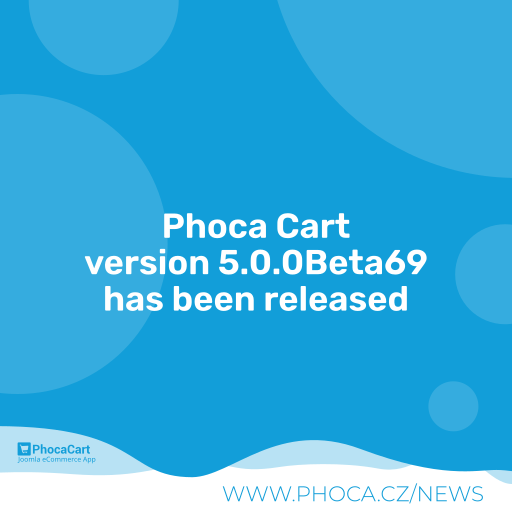
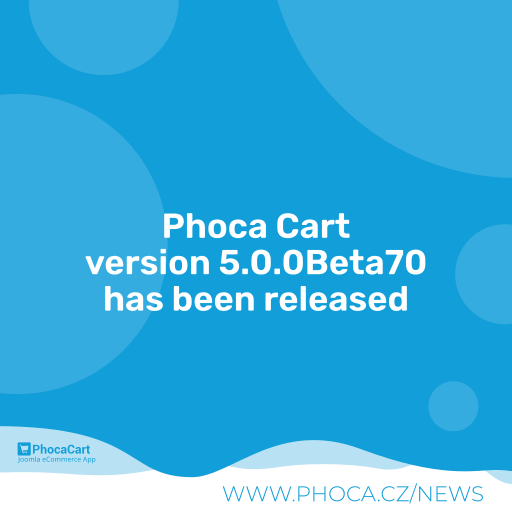
5.0.0Beta70

Changed region(s): [[0.1562, 0.4688, 0.8438, 0.5312]]

diff --git a/media/js/phoca/phocafilter.min.js b/media/js/phoca/phocafilter.min.js
@@ -1,1 +1,1 @@
-let phFilterNewUrlSet="",phFilterNewUrlRemove="",phFilterNewUrlSetPreviousParamWaiting=0,phFilterNewUrlRemovePreviousParamWaiting=0;function phEscapeRegExp(e){return e.replace(/([.*+?^=!:${}()|\[\]\/\\])/g,"\\$1")}function phReplaceAll(e,r,t){return t.replace(new RegExp(phEscapeRegExp(e),"g"),r)}function phEncode(e){e=encodeURIComponent(e);return e=phReplaceAll("%5B","[",e),e=phReplaceAll("%5D","]",e),e=phReplaceAll("%2C",",",e),phReplaceAll("%3A",":",e)}function phArrayToString(e){e=phReplaceAll("[","(",e);return phReplaceAll("]",")",e)}function phStringToArray(e){e=phReplaceAll("(","[",e);return phReplaceAll(")","]",e)}function phCleanArray(r){var t=[];for(let e=0;e<r.length;e++)r[e]&&t.push(r[e]);return t}function phCleanEmptyParams(e){return e.replace(/&?[^&?]+=(?=(?:&|$))/g,"")}function phCleanAloneQuestionMark(e){return e="?"==(e="?&"==e?"?":e)?"":e}function phFilterValue(e){e=phReplaceAll("<","",e);return phReplaceAll(">","",e)}function phResetNewUrl(e){phFilterNewUrlRemove="",phFilterNewUrlSet="",1==e&&(phFilterNewUrlRemovePreviousParamWaiting=0,phFilterNewUrlSetPreviousParamWaiting=0)}function phIsString(e){return"string"==typeof e}function phGetQueryString(e){return e.replace(/(?:^[^?#]*\?([^#]*).*$)?.*/,"$1")}function phUrlParam(e){if(null==e)return"";const i=[],l=/\[\]$/,a=(e,r)=>{let t="function"==typeof r?r():r;null==t&&(t=""),i.push(encodeURIComponent(e)+"="+encodeURIComponent(t))},o=(t,e)=>{if(Array.isArray(e))e.forEach((e,r)=>{l.test(t)?a(t,e):(r="object"==typeof e&&null!=e?r:"",o(t+`[${r}]`,e))});else if("object"==typeof e&&null!=e)for(var[r,i]of Object.entries(e))o(`${t}[${r}]`,i);else a(t,e)};if(Array.isArray(e))e.forEach(e=>a(e.name,e.value));else for(var[r,t]of Object.entries(e))o(r,t);return i.join("&")}function phUrlDeParam(e,o){let n={},p={true:!0,false:!1,null:null};return e.replace(/\+/g," ").split("&").forEach(function(e){e=e.split("=");let r=decodeURIComponent(e[0]),t="",i=n,l=r.split("]["),a=l.length-1;if(a=/\[/.test(l[0])&&/\]$/.test(l[a])?(l[a]=l[a].replace(/\]$/,""),(l=l.shift().split("[").concat(l)).length-1):0,2===e.length)if(t=decodeURIComponent(e[1]),o&&(t=t&&!isNaN(t)?+t:"undefined"===t?void 0:void 0!==p[t]?p[t]:t),a)for(let e=0;e<=a;e++)r=""===l[e]?i.length:l[e],i=i[r]=e<a?i[r]||(l[e+1]&&isNaN(l[e+1])?{}:[]):t;else Array.isArray(n[r])?n[r].push(t):void 0!==n[r]?n[r]=[n[r],t]:n[r]=t;else r&&(n[r]=o?void 0:"")}),n}function phUrlParamQueryString(e,r,t){let i="",l="";var a,o,n;return i=void 0!==r?(n=(a=e.match(/^([^#?]*)\??([^#]*)(#?.*)/))[3]||"",l=2===t&&phIsString(r)?r.replace(/^.*\?|#.*$/g,""):(o=phUrlDeParam(a[2]),r=phIsString(r)?phUrlDeParamQueryString(r):r,phUrlParam(l=2===t?r:1===t?{...r,...o}:{...o,...r})),a[1]+(l||!a[1]?"?":"")+l+n):phGetQueryString(void 0!==e?e:window.location.href)}function phUrlDeParamQueryString(e,r){return phUrlDeParam(e=void 0===e||"boolean"==typeof e?(r=e,phUrlParamQueryString()):phIsString(e)?e.replace(/^.*\?|#.*$/g,""):e,r)}function phRemoveFilter(r,t,e,i,l,a,o,n){var p=Joomla.getOptions("phParamsPC"),h=(1!=p.ajaxSearchingFilteringItems&&(phFilterNewUrlSet=i),r=phArrayToString(r),phUrlParamQueryString()),h=phArrayToString(h);let c,s={},m=0;if(void 0!==(c=""!==phFilterNewUrlRemove||1==phFilterNewUrlRemovePreviousParamWaiting?phUrlDeParamQueryString(phFilterNewUrlRemove):phUrlDeParamQueryString(h)).start&&(s.start=0),void 0!==c.limitstart&&(s.limitstart=0),1==a)delete c[r],s=c,m=2;else if(void 0!==c[r]){let e=c[r];h=e.split(",");-1!==(h=phCleanArray(h)).indexOf(t)&&(-1<(a=h.indexOf(t))&&h.splice(a,1),(e=h.join())?s[r]=e:(delete c[r],s=c,m=2))}else delete c[r],s=c,m=2;let u;if(1==e&&1!=l||1!=e)""==(u=i)&&(u=document.location.pathname),document.location=u;else if(u=location.search,u=phArrayToString(u=""===phFilterNewUrlRemove&&1!=phFilterNewUrlRemovePreviousParamWaiting?u:phFilterNewUrlRemove),phFilterNewUrlRemove=phReplaceAll("%2C",",",phFilterNewUrlRemove=phUrlParamQueryString(u,s,m)),phFilterNewUrlRemove=phReplaceAll("%5B","[",phFilterNewUrlRemove),phFilterNewUrlRemove=phReplaceAll("%5D","]",phFilterNewUrlRemove),phFilterNewUrlRemove=phCleanAloneQuestionMark(phFilterNewUrlRemove=phStringToArray(phFilterNewUrlRemove=phReplaceAll("%3A",":",phFilterNewUrlRemove))),1==o){if((phFilterNewUrlRemovePreviousParamWaiting=1)==e&&1==p.ajaxSearchingFilteringItems)return 2}else{if(1==e&&1==p.ajaxSearchingFilteringItems)return phUpdatePageAndParts(phFilterNewUrlRemove,n),phResetNewUrl(1),2;""==phFilterNewUrlRemove&&(phFilterNewUrlRemove=document.location.pathname),document.location=phFilterNewUrlRemove,phResetNewUrl()}return 1}function phSetFilter(r,t,e,i,l,a,o,n){var p=Joomla.getOptions("phParamsPC"),h=(t=phFilterValue(t),r=phArrayToString(r),phUrlParamQueryString()),h=phArrayToString(h);let c;var s={};if(void 0!==(c=1==phFilterNewUrlSetPreviousParamWaiting?phUrlDeParamQueryString(phFilterNewUrlSet=phArrayToString(phFilterNewUrlSet)):phUrlDeParamQueryString(h)).start&&(s.start=0),void 0!==c.limitstart&&(s.limitstart=0),1==a)s[r]=t;else if(""!==t)if(void 0!==c[r]){let e=c[r];h=e.split(",");-1===(h=phCleanArray(h)).indexOf(t)&&(h.push(t),e=h.join()),s[r]=e}else s[r]=t;let m;if(m=1==e&&1!=l||1!=e?i:location.search,m=phArrayToString(m=1==phFilterNewUrlSetPreviousParamWaiting?phFilterNewUrlSet:m),phFilterNewUrlSet=phReplaceAll("%2C",",",phFilterNewUrlSet=phUrlParamQueryString(m,s,0)),phFilterNewUrlSet=phReplaceAll("%5B","[",phFilterNewUrlSet),phFilterNewUrlSet=phReplaceAll("%5D","]",phFilterNewUrlSet),phFilterNewUrlSet=phCleanAloneQuestionMark(phFilterNewUrlSet=phCleanEmptyParams(phFilterNewUrlSet=phStringToArray(phFilterNewUrlSet=phReplaceAll("%3A",":",phFilterNewUrlSet)))),1==o){if((phFilterNewUrlSetPreviousParamWaiting=1)==e&&1==p.ajaxSearchingFilteringItems)return 2}else{if(1==e&&1==p.ajaxSearchingFilteringItems)return phUpdatePageAndParts(phFilterNewUrlSet,n),phResetNewUrl(1),2;document.location=phFilterNewUrlSet,phResetNewUrl()}return 1}function phChangeFilter(e,r,t,i,l,a,o){var n=Joomla.getOptions("phVarsModPhocacartFilter"),p=Joomla.getOptions("phParamsModPhocacartFilter"),h=n.isItemsView,c=n.isSef;const s=n.urlItemsView;var n=n.urlItemsViewWithoutParams;let m=1;"itemview"==i?(void 0===r&&(r=""),m=phSetFilter(e,r,1,0,1,l,a,o)):"text"==i?m=(1==t?phSetFilter:phRemoveFilter)(e,r,h,s,1,l,a,o):"category"==i?(s=n,1!=p.removeParametersCat&&(n=phUrlParamQueryString(),1==h)?1==c?document.location=phUrlParamQueryString(s,n,2):phRemoveFilter(e,r,h,s,1,l,a,o):document.location=s):"color"==i||"image"==i?jQuery(t).hasClass("on")?(m=phRemoveFilter(e,r,h,s,1,l,a,o),jQuery(t).removeClass("on")):(m=phSetFilter(e,r,h,s,1,l,a,o),jQuery(t).addClass("on")):m=(t.checked?phSetFilter:phRemoveFilter)(e,r,h,s,1,l,a,o);var u,p=document.getElementById("phItemFilterBoxOffCanvas");p&&(u=bootstrap.Offcanvas.getInstance(p),setTimeout(function(){u.hide()},500)),startFullOverlay(m)}function phChangeSearch(e,r,t){var i=Joomla.getOptions("phVarsModPhocacartSearch"),l=Joomla.getOptions("phParamsModPhocacartSearch"),a=i.isItemsView;let o=i.urlItemsView;i=i.urlItemsViewWithoutParams;let n=1,p=a;n=(1==t?(1==l.searchOptions?0<jQuery(".phSearchBoxSearchAllProducts:checked").length&&(o=i,p=0):p=0,phSetFilter):phRemoveFilter)(e,r,a,o,p,1,0,2);t=document.getElementById("phItemSearchBoxOffCanvas");t&&bootstrap.Offcanvas.getInstance(t).hide(),startFullOverlay(n)}function phPriceFilterRange(){const i=Joomla.getOptions("phParamsPC"),l=Joomla.getOptions("phLangPC");"function"==typeof jQuery("#phPriceFilterRange").slider&&jQuery("#phPriceFilterRange").slider({range:!0,min:i.filterPriceMin,max:i.filterPriceMax,values:[i.filterPriceFrom,i.filterPriceTo],slide:function(e,r){jQuery("#phPriceFromTopricefrom").val(r.values[0]),jQuery("#phPriceFromTopriceto").val(r.values[1]),jQuery("#phPriceFilterPrice").html(l.COM_PHOCACART_PRICE+": "+phGetPriceFormat(r.values[0])+" - "+phGetPriceFormat(r.values[1]))}}),jQuery("#phPriceFilterPrice").html(l.COM_PHOCACART_PRICE+": "+phGetPriceFormat(i.filterPriceFrom)+" - "+phGetPriceFormat(i.filterPriceTo)),jQuery("#phPriceFromTopricefrom").on("change",function(e){let r=jQuery("#phPriceFromTopricefrom").val(),t=jQuery("#phPriceFromTopriceto").val();""==t&&(t=i.filterPriceMax),""==r&&(r=i.filterPriceMin),Number(t)<Number(r)&&(t=r,jQuery("#phPriceFromTopriceto").val(t)),"function"==typeof jQuery("#phPriceFilterRange").slider&&jQuery("#phPriceFilterRange").slider({values:[r,t]}),jQuery("#phPriceFilterPrice").html(l.COM_PHOCACART_PRICE+": "+phGetPriceFormat(r)+" - "+phGetPriceFormat(t))}),jQuery("#phPriceFromTopriceto").on("change",function(e){let r=jQuery("#phPriceFromTopricefrom").val(),t=jQuery("#phPriceFromTopriceto").val();""==t&&(t=i.filterPriceMax),""==r&&(r=i.filterPriceMin),Number(t)<Number(r)&&(t=r,jQuery("#phPriceFromTopriceto").val(t)),"function"==typeof jQuery("#phPriceFilterRange").slider&&jQuery("#phPriceFilterRange").slider({values:[r,t]}),jQuery("#phPriceFilterPrice").html(l.COM_PHOCACART_PRICE+": "+phGetPriceFormat(r)+" - "+phGetPriceFormat(t))})}function phClearField(e){jQuery(e).val(""),"#phPriceFromTopricefrom"!=e&&"#phPriceFromTopriceto"!=e||phPriceFilterRange()}jQuery(document).ready(function(){jQuery(".collapse").on("shown.bs.collapse",function(){jQuery(this).parent().find(".glyphicon-triangle-right").removeClass("glyphicon-triangle-right").addClass("glyphicon-triangle-bottom"),jQuery(this).parent().find(".fa-caret-right").removeClass("fa-caret-right").addClass("fa-caret-down");var r=jQuery(this).parent().find("svg use").first();if(0<r.length){let e=r.attr("xlink:href");e=e.replace("#pc-si-triangle-right","#pc-si-triangle-bottom"),r.attr("xlink:href",e)}}).on("hidden.bs.collapse",function(){jQuery(this).parent().find(".glyphicon-triangle-bottom").removeClass("glyphicon-triangle-bottom").addClass("glyphicon-triangle-right"),jQuery(this).parent().find(".fa-caret-down").removeClass("fa-caret-down").addClass("fa-caret-right");var r=jQuery(this).parent().find("svg use").first();if(0<r.length){let e=r.attr("xlink:href");e=e.replace("#pc-si-triangle-bottom","#pc-si-triangle-right"),r.attr("xlink:href",e)}}),phPriceFilterRange()});
+let phFilterNewUrlSet="",phFilterNewUrlRemove="",phFilterNewUrlSetPreviousParamWaiting=0,phFilterNewUrlRemovePreviousParamWaiting=0;function phEscapeRegExp(e){return e.replace(/([.*+?^=!:${}()|\[\]\/\\])/g,"\\$1")}function phReplaceAll(e,r,t){return t.replace(new RegExp(phEscapeRegExp(e),"g"),r)}function phEncode(e){e=encodeURIComponent(e);return e=phReplaceAll("%5B","[",e),e=phReplaceAll("%5D","]",e),e=phReplaceAll("%2C",",",e),phReplaceAll("%3A",":",e)}function phArrayToString(e){e=phReplaceAll("[","(",e);return phReplaceAll("]",")",e)}function phStringToArray(e){e=phReplaceAll("(","[",e);return phReplaceAll(")","]",e)}function phCleanArray(r){var t=[];for(let e=0;e<r.length;e++)r[e]&&t.push(r[e]);return t}function phCleanEmptyParams(e){return e.replace(/&?[^&?]+=(?=(?:&|$))/g,"")}function phCleanAloneQuestionMark(e){return e="?"==(e="?&"==e?"?":e)?"":e}function phFilterValue(e){e=phReplaceAll("<","",e);return phReplaceAll(">","",e)}function phResetNewUrl(e){phFilterNewUrlRemove="",phFilterNewUrlSet="",1==e&&(phFilterNewUrlRemovePreviousParamWaiting=0,phFilterNewUrlSetPreviousParamWaiting=0)}function phIsString(e){return"string"==typeof e}function phGetQueryString(e){return e.replace(/(?:^[^?#]*\?([^#]*).*$)?.*/,"$1")}function phUrlParam(e){if(null==e)return"";const i=[],l=/\[\]$/,a=(e,r)=>{let t="function"==typeof r?r():r;null==t&&(t=""),i.push(encodeURIComponent(e)+"="+encodeURIComponent(t))},o=(t,e)=>{if(Array.isArray(e))e.forEach((e,r)=>{l.test(t)?a(t,e):(r="object"==typeof e&&null!=e?r:"",o(t+`[${r}]`,e))});else if("object"==typeof e&&null!=e)for(var[r,i]of Object.entries(e))o(`${t}[${r}]`,i);else a(t,e)};if(Array.isArray(e))e.forEach(e=>a(e.name,e.value));else for(var[r,t]of Object.entries(e))o(r,t);return i.join("&")}function phUrlDeParam(e,o){let n={},p={true:!0,false:!1,null:null};return e.replace(/\+/g," ").split("&").forEach(function(e){e=e.split("=");let r=decodeURIComponent(e[0]),t="",i=n,l=r.split("]["),a=l.length-1;if(a=/\[/.test(l[0])&&/\]$/.test(l[a])?(l[a]=l[a].replace(/\]$/,""),(l=l.shift().split("[").concat(l)).length-1):0,2===e.length)if(t=decodeURIComponent(e[1]),o&&(t=t&&!isNaN(t)?+t:"undefined"===t?void 0:void 0!==p[t]?p[t]:t),a)for(let e=0;e<=a;e++)r=""===l[e]?i.length:l[e],i=i[r]=e<a?i[r]||(l[e+1]&&isNaN(l[e+1])?{}:[]):t;else Array.isArray(n[r])?n[r].push(t):void 0!==n[r]?n[r]=[n[r],t]:n[r]=t;else r&&(n[r]=o?void 0:"")}),n}function phUrlParamQueryString(e,r,t){let i="",l="";var a,o,n;return i=void 0!==r?(n=(a=e.match(/^([^#?]*)\??([^#]*)(#?.*)/))[3]||"",l=2===t&&phIsString(r)?r.replace(/^.*\?|#.*$/g,""):(o=phUrlDeParam(a[2]),r=phIsString(r)?phUrlDeParamQueryString(r):r,phUrlParam(l=2===t?r:1===t?{...r,...o}:{...o,...r})),a[1]+(l||!a[1]?"?":"")+l+n):phGetQueryString(void 0!==e?e:window.location.href)}function phUrlDeParamQueryString(e,r){return phUrlDeParam(e=void 0===e||"boolean"==typeof e?(r=e,phUrlParamQueryString()):phIsString(e)?e.replace(/^.*\?|#.*$/g,""):e,r)}function phRemoveFilter(r,t,e,i,l,a,o,n){var p=Joomla.getOptions("phParamsPC"),h=(1!=p.ajaxSearchingFilteringItems&&(phFilterNewUrlSet=i),r=phArrayToString(r),phUrlParamQueryString()),h=phArrayToString(h);let c,s={},m=0;if(void 0!==(c=""!==phFilterNewUrlRemove||1==phFilterNewUrlRemovePreviousParamWaiting?phUrlDeParamQueryString(phFilterNewUrlRemove):phUrlDeParamQueryString(h)).start&&(s.start=""),void 0!==c.limitstart&&(s.limitstart=""),1==a)delete c[r],s=c,m=2;else if(void 0!==c[r]){let e=c[r];h=e.split(",");-1!==(h=phCleanArray(h)).indexOf(t)&&(-1<(a=h.indexOf(t))&&h.splice(a,1),(e=h.join())?s[r]=e:(delete c[r],s=c,m=2))}else delete c[r],s=c,m=2;let u;if(1==e&&1!=l||1!=e)""==(u=i)&&(u=document.location.pathname),document.location=u;else if(u=location.search,u=phArrayToString(u=""===phFilterNewUrlRemove&&1!=phFilterNewUrlRemovePreviousParamWaiting?u:phFilterNewUrlRemove),phFilterNewUrlRemove=phReplaceAll("%2C",",",phFilterNewUrlRemove=phUrlParamQueryString(u,s,m)),phFilterNewUrlRemove=phReplaceAll("%5B","[",phFilterNewUrlRemove),phFilterNewUrlRemove=phReplaceAll("%5D","]",phFilterNewUrlRemove),phFilterNewUrlRemove=phCleanAloneQuestionMark(phFilterNewUrlRemove=phStringToArray(phFilterNewUrlRemove=phReplaceAll("%3A",":",phFilterNewUrlRemove))),1==o){if((phFilterNewUrlRemovePreviousParamWaiting=1)==e&&1==p.ajaxSearchingFilteringItems)return 2}else{if(1==e&&1==p.ajaxSearchingFilteringItems)return phUpdatePageAndParts(phFilterNewUrlRemove,n),phResetNewUrl(1),2;""==phFilterNewUrlRemove&&(phFilterNewUrlRemove=document.location.pathname),document.location=phFilterNewUrlRemove,phResetNewUrl()}return 1}function phSetFilter(r,t,e,i,l,a,o,n){var p=Joomla.getOptions("phParamsPC"),h=(t=phFilterValue(t),r=phArrayToString(r),phUrlParamQueryString()),h=phArrayToString(h);let c;var s={};if(void 0!==(c=1==phFilterNewUrlSetPreviousParamWaiting?phUrlDeParamQueryString(phFilterNewUrlSet=phArrayToString(phFilterNewUrlSet)):phUrlDeParamQueryString(h)).start&&(s.start=""),void 0!==c.limitstart&&(s.limitstart=""),1==a)s[r]=t;else if(""!==t)if(void 0!==c[r]){let e=c[r];h=e.split(",");-1===(h=phCleanArray(h)).indexOf(t)&&(h.push(t),e=h.join()),s[r]=e}else s[r]=t;let m;if(m=1==e&&1!=l||1!=e?i:location.search,m=phArrayToString(m=1==phFilterNewUrlSetPreviousParamWaiting?phFilterNewUrlSet:m),phFilterNewUrlSet=phReplaceAll("%2C",",",phFilterNewUrlSet=phUrlParamQueryString(m,s,0)),phFilterNewUrlSet=phReplaceAll("%5B","[",phFilterNewUrlSet),phFilterNewUrlSet=phReplaceAll("%5D","]",phFilterNewUrlSet),phFilterNewUrlSet=phCleanAloneQuestionMark(phFilterNewUrlSet=phCleanEmptyParams(phFilterNewUrlSet=phStringToArray(phFilterNewUrlSet=phReplaceAll("%3A",":",phFilterNewUrlSet)))),1==o){if((phFilterNewUrlSetPreviousParamWaiting=1)==e&&1==p.ajaxSearchingFilteringItems)return 2}else{if(1==e&&1==p.ajaxSearchingFilteringItems)return phUpdatePageAndParts(phFilterNewUrlSet,n),phResetNewUrl(1),2;document.location=phFilterNewUrlSet,phResetNewUrl()}return 1}function phChangeFilter(e,r,t,i,l,a,o){var n=Joomla.getOptions("phVarsModPhocacartFilter"),p=Joomla.getOptions("phParamsModPhocacartFilter"),h=n.isItemsView,c=n.isSef;const s=n.urlItemsView;var n=n.urlItemsViewWithoutParams;let m=1;"itemview"==i?(void 0===r&&(r=""),m=phSetFilter(e,r,1,0,1,l,a,o)):"text"==i?m=(1==t?phSetFilter:phRemoveFilter)(e,r,h,s,1,l,a,o):"category"==i?(s=n,1!=p.removeParametersCat&&(n=phUrlParamQueryString(),1==h)?1==c?document.location=phUrlParamQueryString(s,n,2):phRemoveFilter(e,r,h,s,1,l,a,o):document.location=s):"color"==i||"image"==i?jQuery(t).hasClass("on")?(m=phRemoveFilter(e,r,h,s,1,l,a,o),jQuery(t).removeClass("on")):(m=phSetFilter(e,r,h,s,1,l,a,o),jQuery(t).addClass("on")):m=(t.checked?phSetFilter:phRemoveFilter)(e,r,h,s,1,l,a,o);var u,p=document.getElementById("phItemFilterBoxOffCanvas");p&&(u=bootstrap.Offcanvas.getInstance(p),setTimeout(function(){u.hide()},500)),startFullOverlay(m)}function phChangeSearch(e,r,t){var i=Joomla.getOptions("phVarsModPhocacartSearch"),l=Joomla.getOptions("phParamsModPhocacartSearch"),a=i.isItemsView;let o=i.urlItemsView;i=i.urlItemsViewWithoutParams;let n=1,p=a;n=(1==t?(1==l.searchOptions?0<jQuery(".phSearchBoxSearchAllProducts:checked").length&&(o=i,p=0):p=0,phSetFilter):phRemoveFilter)(e,r,a,o,p,1,0,2);t=document.getElementById("phItemSearchBoxOffCanvas");t&&bootstrap.Offcanvas.getInstance(t).hide(),startFullOverlay(n)}function phPriceFilterRange(){const i=Joomla.getOptions("phParamsPC"),l=Joomla.getOptions("phLangPC");"function"==typeof jQuery("#phPriceFilterRange").slider&&jQuery("#phPriceFilterRange").slider({range:!0,min:i.filterPriceMin,max:i.filterPriceMax,values:[i.filterPriceFrom,i.filterPriceTo],slide:function(e,r){jQuery("#phPriceFromTopricefrom").val(r.values[0]),jQuery("#phPriceFromTopriceto").val(r.values[1]),jQuery("#phPriceFilterPrice").html(l.COM_PHOCACART_PRICE+": "+phGetPriceFormat(r.values[0])+" - "+phGetPriceFormat(r.values[1]))}}),jQuery("#phPriceFilterPrice").html(l.COM_PHOCACART_PRICE+": "+phGetPriceFormat(i.filterPriceFrom)+" - "+phGetPriceFormat(i.filterPriceTo)),jQuery("#phPriceFromTopricefrom").on("change",function(e){let r=jQuery("#phPriceFromTopricefrom").val(),t=jQuery("#phPriceFromTopriceto").val();""==t&&(t=i.filterPriceMax),""==r&&(r=i.filterPriceMin),Number(t)<Number(r)&&(t=r,jQuery("#phPriceFromTopriceto").val(t)),"function"==typeof jQuery("#phPriceFilterRange").slider&&jQuery("#phPriceFilterRange").slider({values:[r,t]}),jQuery("#phPriceFilterPrice").html(l.COM_PHOCACART_PRICE+": "+phGetPriceFormat(r)+" - "+phGetPriceFormat(t))}),jQuery("#phPriceFromTopriceto").on("change",function(e){let r=jQuery("#phPriceFromTopricefrom").val(),t=jQuery("#phPriceFromTopriceto").val();""==t&&(t=i.filterPriceMax),""==r&&(r=i.filterPriceMin),Number(t)<Number(r)&&(t=r,jQuery("#phPriceFromTopriceto").val(t)),"function"==typeof jQuery("#phPriceFilterRange").slider&&jQuery("#phPriceFilterRange").slider({values:[r,t]}),jQuery("#phPriceFilterPrice").html(l.COM_PHOCACART_PRICE+": "+phGetPriceFormat(r)+" - "+phGetPriceFormat(t))})}function phClearField(e){jQuery(e).val(""),"#phPriceFromTopricefrom"!=e&&"#phPriceFromTopriceto"!=e||phPriceFilterRange()}jQuery(document).ready(function(){jQuery(".collapse").on("shown.bs.collapse",function(){jQuery(this).parent().find(".glyphicon-triangle-right").removeClass("glyphicon-triangle-right").addClass("glyphicon-triangle-bottom"),jQuery(this).parent().find(".fa-caret-right").removeClass("fa-caret-right").addClass("fa-caret-down");var r=jQuery(this).parent().find("svg use").first();if(0<r.length){let e=r.attr("xlink:href");e=e.replace("#pc-si-triangle-right","#pc-si-triangle-bottom"),r.attr("xlink:href",e)}}).on("hidden.bs.collapse",function(){jQuery(this).parent().find(".glyphicon-triangle-bottom").removeClass("glyphicon-triangle-bottom").addClass("glyphicon-triangle-right"),jQuery(this).parent().find(".fa-caret-down").removeClass("fa-caret-down").addClass("fa-caret-right");var r=jQuery(this).parent().find("svg use").first();if(0<r.length){let e=r.attr("xlink:href");e=e.replace("#pc-si-triangle-bottom","#pc-si-triangle-right"),r.attr("xlink:href",e)}}),phPriceFilterRange()});

diff --git a/media/js/phoca/phocafilter.js b/media/js/phoca/phocafilter.js
@@ -342,10 +342,10 @@ function phRemoveFilter(paramV, value, isItemsView, urlItemsView, filteredProduc
 
     /* Handle pagination - when changing filter, set pagination to zero - to start */
     if (typeof paramsAll["start"] !== "undefined") {
-        paramsTypeStringNew["start"] = 0;
+        paramsTypeStringNew["start"] = '';// 0;
     }
     if (typeof paramsAll["limitstart"] !== "undefined") {
-        paramsTypeStringNew["limitstart"] = 0;
+        paramsTypeStringNew["limitstart"] = '';// 0;
     }
 
     if (uniqueValue == 1) {
@@ -515,10 +515,10 @@ function phSetFilter(paramV, value, isItemsView, urlItemsView, filteredProductsO
 
     /* Handle pagination - when changing filter, set pagination to zero - to start */
     if (typeof paramsAll["start"] !== "undefined") {
-        paramsTypeStringNew["start"] = 0;
+        paramsTypeStringNew["start"] = '';// 0
     }
     if (typeof paramsAll["limitstart"] !== "undefined") {
-        paramsTypeStringNew["limitstart"] = 0;
+        paramsTypeStringNew["limitstart"] = '';// 0;
     }
 
     if (uniqueValue == 1) {

diff --git a/media/js/administrator/phocacart.js b/media/js/administrator/phocacart.js
@@ -567,11 +567,11 @@ jQuery(document).ready(function() {
 			phListenScanner = true;
 		}
 	}
-	console.log(phListenScanner);
+	//console.log(phListenScanner);
 
 	if (phListenScanner) {
 		document.addEventListener('keydown', (ev) => {
-						
+
 			if (ev.ctrlKey || ev.altKey) {
 				// Ignore command-like keys
 				return;
@@ -609,10 +609,10 @@ jQuery(document).ready(function() {
 				document.getElementById('filter_search').form.submit();
 			} else if (ev.key == 'Space') {
 				// IE
-				phScannerInput += ' '; 
+				phScannerInput += ' ';
 			} else if (ev.key.length == 1) {
 				// A character not a key like F12 or Backspace
-				phScannerInput += ev.key; 
+				phScannerInput += ev.key;
 			}
 		});
 	}

diff --git a/site/models/items.php b/site/models/items.php
@@ -55,7 +55,8 @@ class PhocaCartModelItems extends BaseDatabaseModel
 
 		$this->setState('limit', $limit);
 		$this->setState('limitstart', $app->input->get('limitstart', 0, 'int'));
-		$this->setState('limitstart', ($this->getState('limit') != 0 ? (floor($this->getState('limitstart') / $this->getState('limit')) * $this->getState('limit')) : 0));
+		$this->setState('limitstart', ($this->getState('limit') != 0 ?  (int)(floor($this->getState('limitstart') / $this->getState('limit')) * $this->getState('limit')) : 0));
+
 		$this->setState('filter.language',$app->getLanguageFilter());
 		$this->setState('filter_order', $app->input->get('filter_order', 'ordering'));
 		$this->setState('filter_order_dir', $app->input->get('filter_order_Dir', 'ASC'));
@@ -118,6 +119,8 @@ class PhocaCartModelItems extends BaseDatabaseModel
 		$manufacturer_alias	= $paramsC->get( 'manufacturer_alias', 'manufacturer');
 		$manufacturer_alias	= $manufacturer_alias != '' ? trim(PhocacartText::filterValue($manufacturer_alias, 'alphanumeric'))  : 'manufacturer';
 
+		$this->pagination->hideEmptyLimitstart = true;
+
 		if (!empty($this->pagination)) {
 			if ($state->get('price_from') != '') { $this->pagination->setAdditionalUrlParam('price_from', $state->get('price_from'));}
 			if ($state->get('price_to') != '') { $this->pagination->setAdditionalUrlParam('price_to', $state->get('price_to'));}
@@ -149,7 +152,6 @@ class PhocaCartModelItems extends BaseDatabaseModel
 			// Format is sent per POST - can be removed if needed, works only with patch: https://issues.joomla.org/tracker/joomla-cms/44023
 			$this->pagination->setAdditionalUrlParam('format', null);
 		}
-
 
 		return $this->pagination;
 	}

diff --git a/site/models/category.php b/site/models/category.php
@@ -46,7 +46,7 @@ class PhocaCartModelCategory extends BaseDatabaseModel
 
 		$this->setState('limit', $limit);
 		$this->setState('limitstart', $app->input->get('limitstart', 0, 'int'));
-		$this->setState('limitstart', ($this->getState('limit') != 0 ? (floor($this->getState('limitstart') / $this->getState('limit')) * $this->getState('limit')) : 0));
+		$this->setState('limitstart', ($this->getState('limit') != 0 ? (int)(floor($this->getState('limitstart') / $this->getState('limit')) * $this->getState('limit')) : 0));
 		$this->setState('filter.language',$app->getLanguageFilter());
 		$this->setState('filter_order', $app->input->get('filter_order', 'ordering'));
 		$this->setState('filter_order_dir', $app->input->get('filter_order_Dir', 'ASC'));
@@ -65,6 +65,7 @@ class PhocaCartModelCategory extends BaseDatabaseModel
 			jimport('joomla.html.pagination');
 			$this->pagination = new PhocacartPagination( $this->getTotal($categoryId), $this->getState('limitstart'), $this->getState('limit') );
 		}
+        $this->pagination->hideEmptyLimitstart = true;
 		return $this->pagination;
 	}
 

diff --git a/admin/libraries/phocacart/language/language.php b/admin/libraries/phocacart/language/language.php
@@ -89,7 +89,7 @@ class PhocacartLanguage
 
         // No language variables (no translation) for items in order (total items like shipping or payment titles)
         if ($type == 'order' && $order_language_variables == 0) {
-            return $title;;
+            return $title;
         }
 
         $o = '';

diff --git a/README.MD b/README.MD
@@ -128,11 +128,11 @@ Phoca Cart is e-commerce extension - powerful shopping cart for Joomla! CMS. Pho
 
 ## Version (Joomla! 4.x)
 
-4.0.10
+4.0.11
 
 ## Version (Joomla! 5.x)
 
-5.0.0Beta69
+5.0.0Beta70
 
 
 
